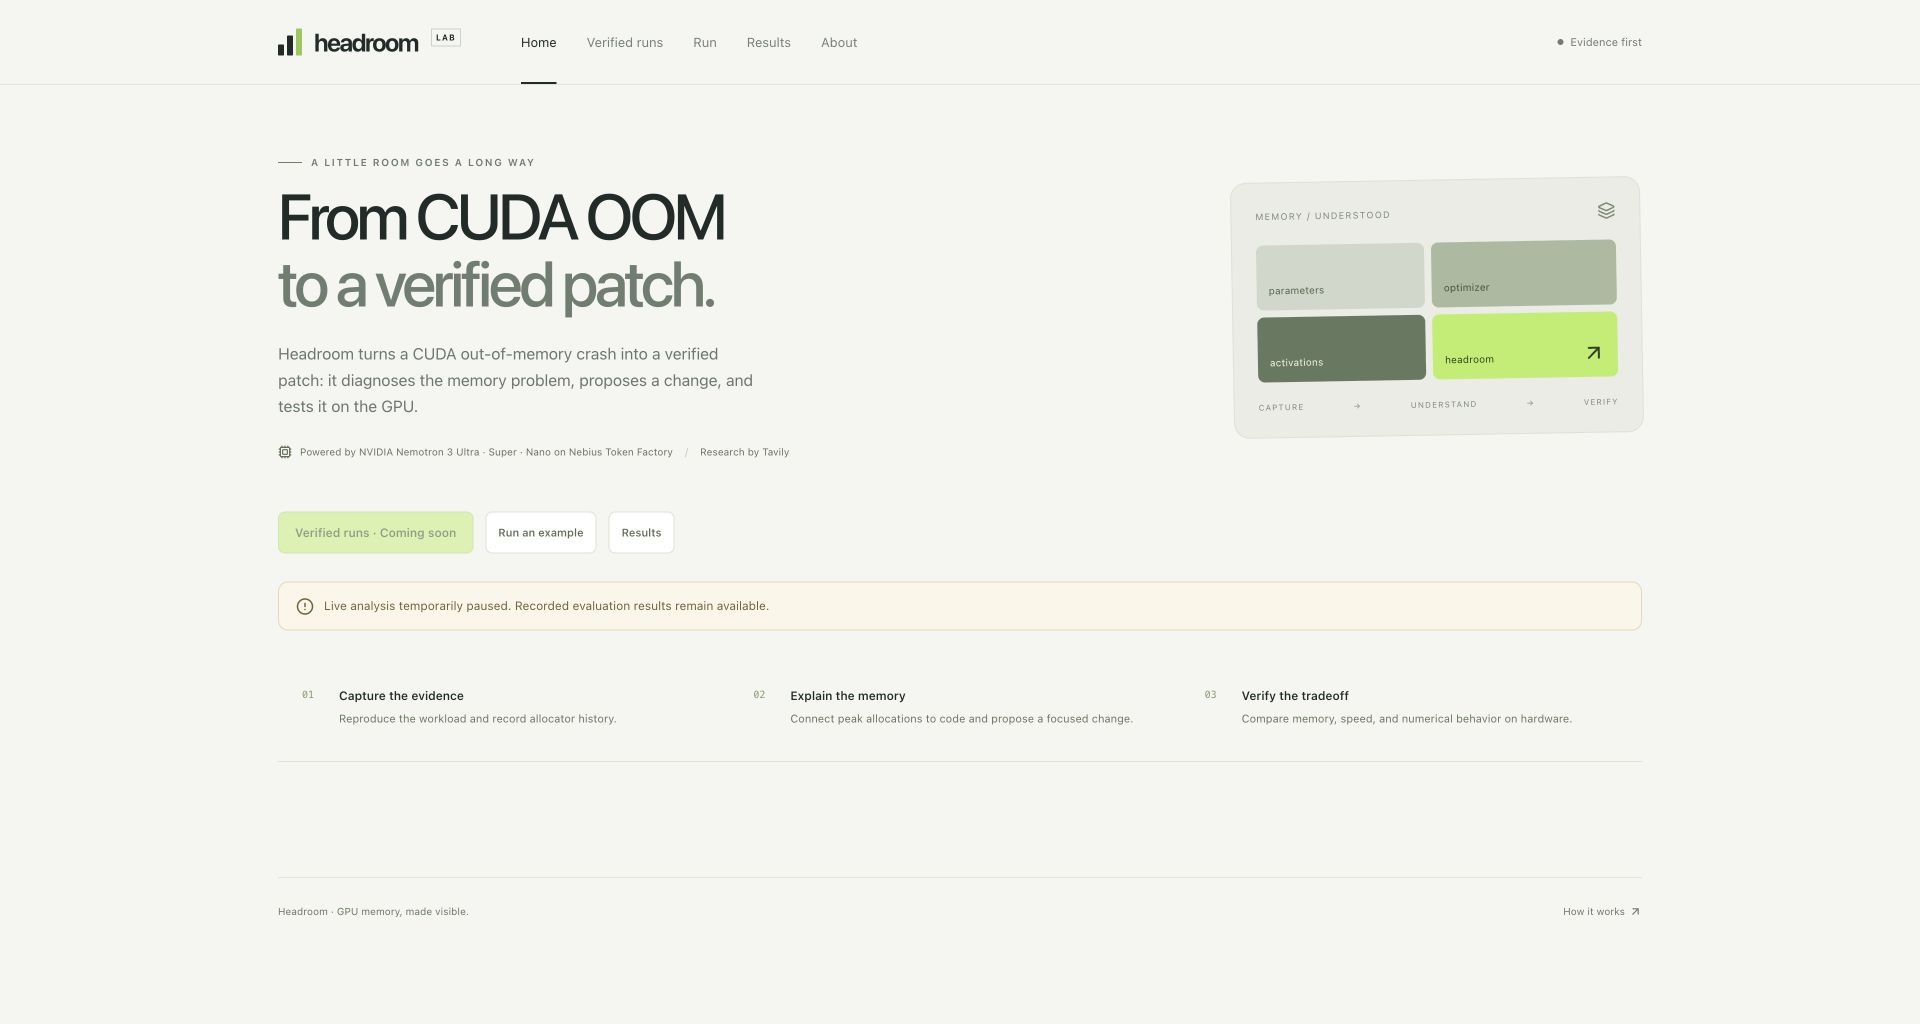
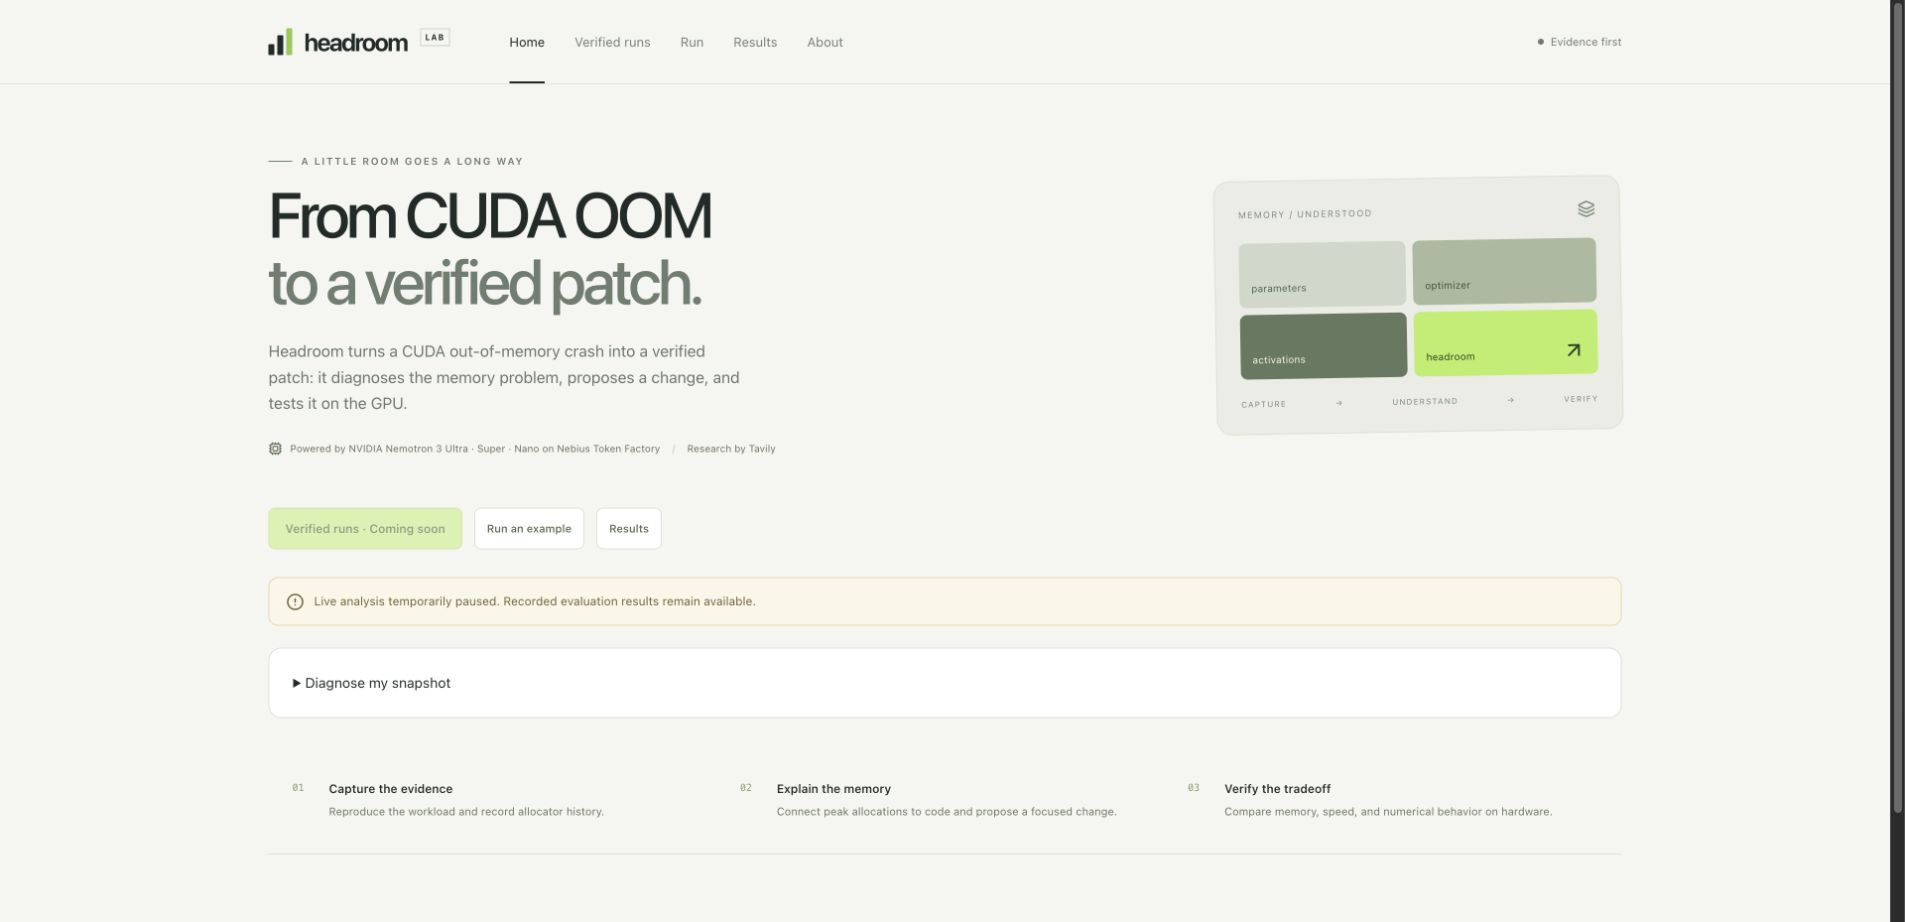
Publish verified read-only frontend and record browser checks

diff --git a/PROGRESS.md b/PROGRESS.md
@@ -17,7 +17,7 @@
 | F0 固化与准备 | 文件与跟踪区块已完成；A/C 待确认 | 新计划已原样保存，原 PLAN 未改；收到明确 $X 后才登记新运行池 |
 | F1 消融实验 | v6 的 27 个请求、102 个输入和 28 个实现文件已固定；新池与一次性执行绑定完成 | A 到位、价格再核对后才激活并执行；尚无消融实测结果 |
 | F2 Verified runs 与公网部署 | 公网只读入口已验证；4 成功 + 2 失败画廊与受限提交代码已准备 | 画廊仅私有预览，公开待 C；实时示例等待 A；手机流量与真实 s3 运行未验 |
-| F2b 前端瘦身 | product-v1 展示接口、字面扫描 0 命中、隔离构建与浏览器检查通过；新版本待发布 | 390px 五页和历史详情无整页溢出；Lighthouse 97；135 UI / 80 API 测试通过；真实新运行仍待 A |
+| F2b 前端瘦身 | product-v1 展示接口与前端已发布；字面扫描 0 命中、隔离构建与浏览器检查通过 | 390px 五页和历史详情无整页溢出；Lighthouse 97；135 UI / 80 API 测试通过；真实新运行仍待 A |
 | F3 R7 修复与补强 | 条件提示与独立 exact-loss20 / observed-bf16 规则已实现；415 项相关离线测试通过 | 新档 CLI 与整组预算绑定尚待接通；固定九场景、s2 两档、HF 实测等待 A |
 | F3b-1 自带快照诊断 | CLI/Web、安全解析与隔离队列已实现，离线联调通过 | s2/nanoGPT 根因至少 1/2、真实网页诊断及每次费用验收等待 A；公网上传仍关闭 |
 | F3b-2 Watch 演示 | 未开始 | 一次真实 OOM 触发及可追溯 run；依赖前序工程与 A |
@@ -35,7 +35,7 @@
 - F1 v6 已重新构建，27 组请求内容和评分与 v5 相同；v5 保留。费用算术预览仍为 $1.4487068，仅预估，不是实测花费。旧费用预览引用的计数文件哈希已失效，新的 final 收据已绑定当前文件，未覆盖旧证据。
 - 新严格档核验 20 条记录的 backward loss 标量、实际精度和独立配对/参考链；不会把 within-tolerance 当逐位一致。BF16 档允许原基线 OOM，但必须实测 BF16 并通过原有数值容差和安全规则。415 项相关离线测试通过，没有新增 GPU 成绩；s2 现有配对契约仍不支持，不能宣称严格档通过。
 - 前端改用明确的产品展示 API，原始报告/补丁下载字节保持。五页 390px、实际历史 s3 详情、模型时间线、曲线、diff、验证表均已检查；画廊的真实栈字节和帧可展开。私有历史详情未复制请求绑定，因而该页栈细节如实显示不可用。Lighthouse 97/95/100/100，相关 API 80、UI 135 通过。
-- A/C 仍待用户确认。公开画廊、上传、实时运行和 judge token 仍未开启。新产品版本发布状态以随后的部署收据为准，不能把私有预览当公网交付。
+- A/C 仍待用户确认。公开画廊、上传、实时运行和 judge token 仍未开启。随后已发布只读产品版本，公网首页/Run/Results/About 与新旧健康接口均成功，真实 Chrome 结果表已加载；服务重启后 1.190 秒恢复源站健康。公开功能开关未变，详见 [部署收据](reports/final48h-product-view-20261029/deployment.json)。
 
 ## 2026-10-29 消融与成本预估工程
 

diff --git a/reports/final48h-product-view-20261029/README.md b/reports/final48h-product-view-20261029/README.md
@@ -11,3 +11,7 @@ Validation: **80 API/projection tests, 135 UI tests**, Ruff and `git diff --chec
 This is an offline implementation receipt. No model, GPU or financial operation ran; no production service, frontend distribution, submission switch or deployment was changed. Root review and a separate deployment decision remain necessary.
 
 Final root review checked five pages at an actual 390-pixel Chrome viewport, with no page-level horizontal overflow, visible forbidden terminology or console errors. The real curated stack citation expanded to 830,472,192 peak bytes and its frames; the patch rendered. A separate private copy of the existing s3 run displayed its actual 20 events, model badges/times/cost states, chart, diff and verification tables. Its request binding was deliberately not copied, so its stack detail correctly remains unavailable; this is not a new live run. See ../final48h-product-browser-20261029/layout.json and historical-preview.json. Home Lighthouse was 97/95/100/100. Final API/projection rerun: 80 passed in 15.53 seconds.
+
+## Subsequent read-only publication
+
+After the frozen implementation commit ab8b4f3, the reviewed build was deployed with the new backend first, old hashed assets retained, and index.html replaced atomically. The origin recovered in 1.190 seconds after its service restart. Public Home, Run, Results, About and both health representations returned 200; the public HTML matched the reviewed build. Physical Chrome loaded the new homepage and nine result rows without console errors. Verified runs, live submissions, snapshot submissions and judge scripts remain disabled. The private preview and local SSH forward were stopped afterward. No model/GPU execution or funding change occurred. See deployment.json and ../final48h-product-browser-20261029/public-home.png.

diff --git a/docs/media/final/README.md b/docs/media/final/README.md
@@ -70,3 +70,7 @@ before recording narration.
 5. Keep generated MP4, WebM, and MP3 files out of Git. The main task owns the requested ignore rules.
 
 F6(a) and F6(b) remain pending. Do not mark “F6 materials ready, handed to Opus” until all five prerequisites in FINAL_48H are satisfied.
+
+### Homepage refresh — 2026-10-29
+
+`home.png` now shows the actual published read-only homepage from physical Chrome after the ab8b4f3 product build. The gallery and live analysis are visibly unavailable pending the separate confirmations. This image is a website screenshot, not evidence of a new live run, and does not complete F6. Source and browser checks: reports/final48h-product-view-20261029/deployment.json and reports/final48h-product-browser-20261029/layout.json.
